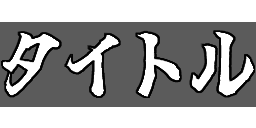
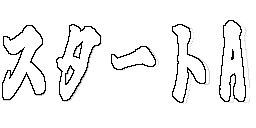
リザルトのスプライト変更

diff --git a/Project/GameSources/GameStage.cpp b/Project/GameSources/GameStage.cpp
@@ -35,9 +35,9 @@ namespace basecross {
 		wstring effectPath = mediaPath + L"Effekt/";
 		app->RegisterTexture(L"GROUND", texPath + L"Ground.png");
 
-		app->RegisterTexture(L"POSE_TITLE", uiPath + L"Title_Menu.png");
+		app->RegisterTexture(L"POSE_TITLE", uiPath + L"ResultToTitle.png");
 		//app->RegisterTexture(L"POSE_TITLE_SELECTED", uiPath + L"BackToTitle_Selected.png");
-		app->RegisterTexture(L"POSE_SELECT", uiPath + L"Select_Menu.png");
+		app->RegisterTexture(L"POSE_SELECT", uiPath + L"ResultNextStage.png");
 		//app->RegisterTexture(L"POSE_ENDGAME_SELECTED", uiPath + L"NextStage_Selected.png");
 		app->RegisterTexture(L"POSE_START", uiPath + L"BackGame.png");
 		//app->RegisterTexture(L"POSE_START_SELECTED", uiPath + L"Restart_Selected.png");
@@ -62,7 +62,10 @@ namespace basecross {
 		app->RegisterTexture(L"BOSS_APPEAR", uiPath + L"BossAppear.png");
 
 		app->RegisterTexture(L"SEARCH_RANGE", texPath + L"SearchRange.png");
+		app->RegisterTexture(L"RESULT_MENU", uiPath + L"Result_Menu2.png");
 		app->RegisterTexture(L"RESULT_TEXT", uiPath + L"ResultTexts.png");
+		app->RegisterTexture(L"RESULT_TEXT2", uiPath + L"ResultTexts2.png");
+		app->RegisterTexture(L"RESULT_SCORE2", uiPath + L"ResultScore.png");
 		app->RegisterTexture(L"RESULT_SCORE", uiPath + L"ResultScoreText.png");
 		app->RegisterTexture(L"GAMEOVER_TEXT", uiPath + L"GameOver.png");
 		

diff --git a/Project/GameSources/Scene.cpp b/Project/GameSources/Scene.cpp
@@ -42,7 +42,7 @@ namespace basecross {
 			CreateModelResource();
 			SoundManager::Instance().RegisterSounds();
       
-			PostEvent(0.0f, GetThis<ObjectInterface>(), GetThis<Scene>(), L"ToGameStageSatou");
+			PostEvent(0.0f, GetThis<ObjectInterface>(), GetThis<Scene>(), L"ToTitleStage");
     }
 		catch (...) {
 			throw;

diff --git a/Project/GameSources/TitleStage.cpp b/Project/GameSources/TitleStage.cpp
@@ -71,7 +71,7 @@ namespace basecross {
 		}
 		if (m_Fade->IsFinish())
 		{
-			PostEvent(0.0f, GetThis<ObjectInterface>(), App::GetApp()->GetScene<Scene>(), L"ToGameStage");
+			PostEvent(0.0f, GetThis<ObjectInterface>(), App::GetApp()->GetScene<Scene>(), L"ToGameStageSatou");
 		}
 
 	}
